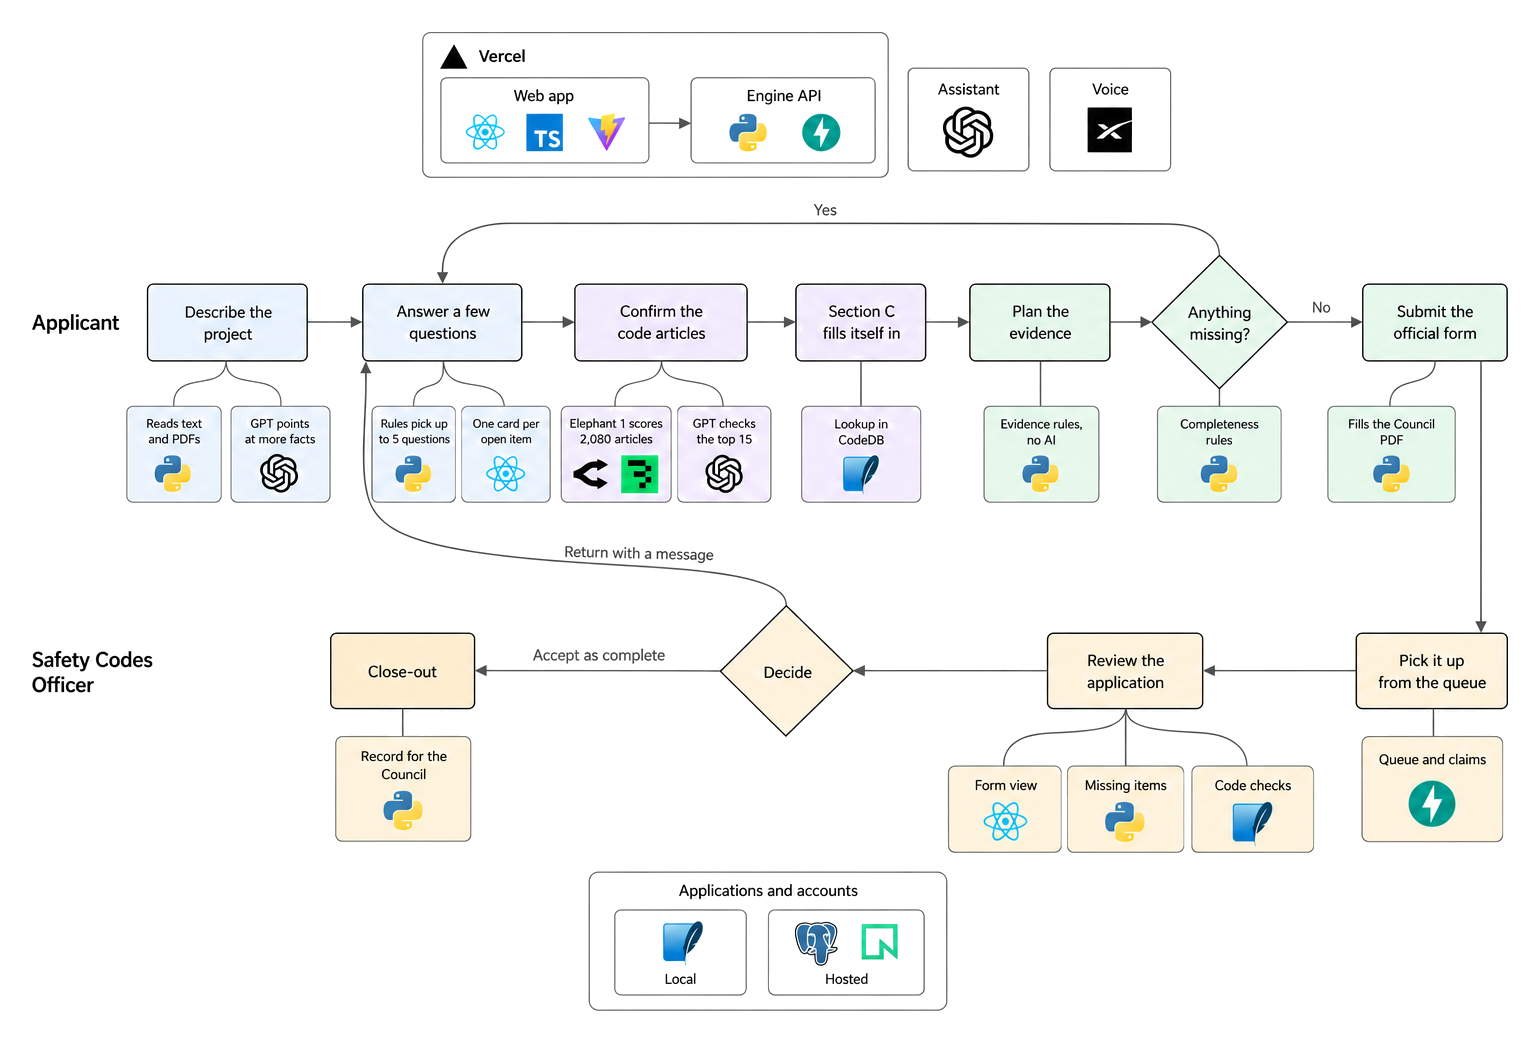
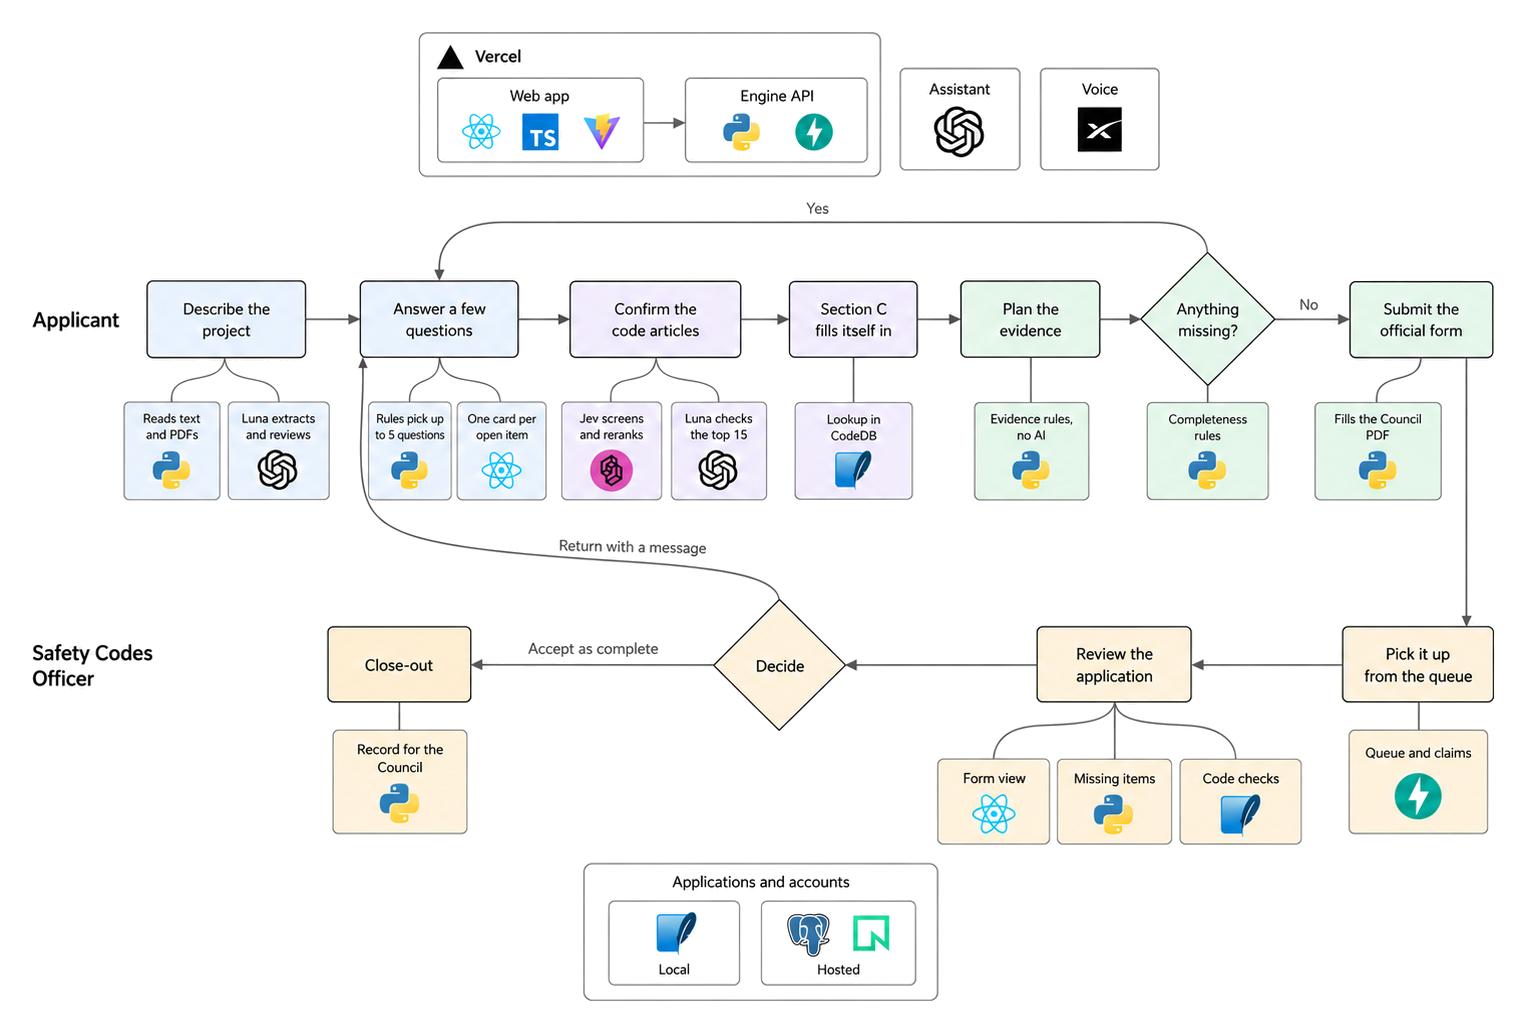
docs: update Luna and Jev workflow README and diagram

diff --git a/README.md b/README.md
@@ -127,7 +127,7 @@ Many published decisions state their outcome, so the cases test reading and pape
 - Add authorities beyond Edmonton and Calgary, then other provinces.
 - Draft the officer's Part 2 decision page from the review findings.
 - Search the CCMC product evaluation registry from inside the app.
-- Measure the code check on applications that experts have reviewed, and calibrate its relevance scores.
+- Measure how accurate the whole workflow is on applications that experts have reviewed, and calibrate its relevance scores.
 - Test the full workflow with real applicants and officers.
 
 ---
@@ -140,9 +140,9 @@ This diagram has the same steps as the one in [Our solution](#our-solution), wit
 
 For applicants:
 
-1. **Describe the project.** Rules read facts, such as the owner and the address, from the description and from the text and fields of any PDFs. If AI is on, GPT points at more facts, and each one must quote the applicant's own words.
+1. **Describe the project.** Rules read facts, such as the owner and the address, from the description and from the text and fields of any PDFs. If AI is on, GPT-6 Luna, an OpenAI model, points at more facts, and each one must quote the text it came from. When you attach files, Luna also reviews them page by page.
 2. **Answer a few questions.** A rule-based planner picks up to five questions. It starts with conflicts in what you wrote, then facts that narrow down the code articles. The website then shows one card for each item that is still open. No AI writes the questions.
-3. **Confirm the code articles.** Elephant 1 scores all 2,080 articles in Division B of the code and reranks the top 60. Elephant 1 is a model hosted on Baseten, and Batatis reaches it through OpenRouter. GPT then reads the top 15 in full and quotes the sentences that apply. You confirm each article. With AI off, a keyword search over CodeDB suggests articles instead.
+3. **Confirm the code articles.** Jev 1.13.0, a TypeSafe model that answers with a probability, scores all 2,080 articles in Division B of the code and reranks the top 60. Luna then reads the top 15 in full and quotes the sentences that apply. Batatis shows up to 10 articles, and you confirm each one. With AI off, or if scoring fails, a keyword search over CodeDB suggests articles instead.
 4. **Section C fills itself in.** The objectives, functions, and intent of each confirmed article come from the code's own tables in CodeDB. No AI is involved.
 5. **Plan the evidence.** Rules match each article to the kinds of evidence it needs, and flag when an engineer or another professional is required. No AI is involved.
 6. **Anything missing?** Completeness rules check every required part of Sections A to D. Anything missing sends you back to the questions.
@@ -155,9 +155,35 @@ For Safety Codes Officers:
 10. **Decide.** Returning the application sends the applicant a message, and they fix it and resubmit. Accepting it marks it as administratively complete.
 11. **Close-out.** The engine builds the decision's record package for the Council.
 
-CodeDB is a SQLite database of the building code. You build it on your computer from the official PDFs of the National Building Code, 2023 Alberta Edition, second printing. Applications and accounts live in SQLite on your computer, or in PostgreSQL on Neon when the app is hosted. The assistant answers with GPT. Voice uses Grok from xAI.
+Batatis checks what Luna writes before it keeps anything. The document review proposes facts, conflicts, the code provisions the files cite, what is still missing, and questions to ask next. Batatis drops a fact, conflict, or provision unless its excerpt appears in the request or the file it names. When a restated fact adds a number that its excerpt lacks, Batatis shows the excerpt instead. A wording filter removes Batatis's own sentences that say a design complies, is safe, or is approved, or that cite an article number CodeDB doesn't have.
+
+The filter catches common phrasings, not every one. The engine saves the document review with the application, but the screens don't show it yet, and step 3 doesn't use it to find articles yet.
+
+CodeDB is a SQLite database of the building code. You build it on your computer from the official PDFs of the National Building Code, 2023 Alberta Edition, second printing. Applications and accounts live in SQLite on your computer, or in PostgreSQL on Neon when the app is hosted. The assistant answers with GPT-4.1 mini by default, or with Claude Sonnet 5.5 when `ANTHROPIC_API_KEY` is set. Voice uses Grok from xAI.
 
 Before any text goes to an AI service, Batatis removes the names, contact details, and addresses that it recognizes. A daily spend cap, US$5 by default, stops AI calls when it is reached.
+
+<details>
+<summary>Why Batatis uses Luna and Jev, and what isn't measured yet</summary>
+
+The team chose this workflow on October 25, 2026, and stopped benchmarking. The [decision record](docs/evaluations/workflow-decision-20261025.md) explains the choice and its limits. The [evidence snapshot](docs/evaluations/workflow-accuracy-evidence-20261025.json) holds the saved results behind it.
+
+- Luna reviews documents with its original prompt. In the saved results, this source-checked review came with the largest improvement. A matched test of another review model, and a test of a revised prompt, showed no clear gain.
+- The team asked for Jev to score the articles. Its saved runs did not finish, so they record the setup, not a score.
+- [`engine/identify/pipeline.json`](engine/identify/pipeline.json) holds the settings for step 3. They resolve to configuration `5f1c92331550984a`. Jev reads each article as its heading and the first 700 characters of its text. [`engine/tests/test_workflow_profile.py`](engine/tests/test_workflow_profile.py) fails if a selected model, effort, or limit changes.
+
+No complete, reliable test has measured the accuracy of this combined workflow, and no result shows that it is more than 97% accurate. The record also keeps older scores from earlier code, other judges, and other workloads. None of them is the accuracy of this workflow.
+
+When testing resumes, these are the next tests, in order. None is scheduled.
+
+1. Review the source checks and the wording filter independently, and test a filter that reads meaning instead of wording.
+2. Run the whole journey in the app, from upload to export.
+3. Measure this exact workflow on the [development cases](evals_dev/data_prompts/README.md#split), then on the held-out cases without tuning on them.
+4. Have experts check the reference answers and the judge.
+5. Test smaller source chunks, and passing reviewed facts to step 3, as separate changes.
+6. Tune cost and speed only after accuracy.
+
+</details>
 
 <details>
 <summary>Measured accuracy of the engineer-needed flag</summary>
@@ -176,7 +202,12 @@ The frontend, meaning the files that build the screens and their look:
 
 ![The frontend files: the web app's entry, the screens in web/src/calm, and the design rules and tokens in docs](docs/readme/folder-structure-frontend.png)
 
-Both pictures show the main folders and files, not every one.
+Both pictures show the main folders and files, not every one. The pictures leave out these files, which hold the AI workflow:
+
+- [`engine/intake/review.py`](engine/intake/review.py) runs the document review and checks what it returns.
+- [`engine/identify/pipeline.json`](engine/identify/pipeline.json) holds the settings for finding code articles.
+- [`evals_dev/data_prompts/`](evals_dev/data_prompts/) runs the practice cases through the engine and scores the results.
+- [`docs/evaluations/workflow-decision-20261025.md`](docs/evaluations/workflow-decision-20261025.md) explains why Batatis uses this workflow, and its limits.
 
 ## Get started
 
@@ -363,22 +394,46 @@ BATATIS_LIVE_ELEPHANT=0
 BATATIS_DAILY_SPEND_CAP_USD=5
 ```
 
+The AI steps in [How Batatis works](#how-batatis-works) need your OpenAI key and a TypeSafe key. The example file has no line for the TypeSafe key, so add one. Paste each key after its `=`, and set `BATATIS_LIVE=1`:
+
+```dotenv
+OPENAI_API_KEY=
+TYPESAFE_API_KEY=
+BATATIS_LIVE=1
+```
+
+The OpenRouter key and `BATATIS_LIVE_ELEPHANT` are only for an optional alternative scorer, explained below.
+
 #### `OPENAI_API_KEY`
 
-The OpenAI API runs GPT models. Batatis uses GPT to read more facts from descriptions and PDFs, and to check and quote the top code articles. The assistant also answers with GPT. Set `BATATIS_LIVE=1` to turn it on.
+The OpenAI API runs GPT models. Batatis uses GPT-6 Luna, at medium reasoning effort, to read more facts from descriptions and PDFs, to review attached files, and to read the top 15 code articles in full. The assistant uses GPT-4.1 mini by default. If you set `ANTHROPIC_API_KEY`, which is not in the example file, the assistant uses Claude Sonnet 5.5 instead. Set `BATATIS_LIVE=1` to turn it on.
 
 Files that use it:
 
 - [`engine/llm_gate.py`](engine/llm_gate.py)
 - [`engine/intake/model.py`](engine/intake/model.py)
+- [`engine/intake/review.py`](engine/intake/review.py)
 - [`engine/identify/providers.py`](engine/identify/providers.py)
 - [`engine/routes_assist.py`](engine/routes_assist.py)
 
 Get a key at [platform.openai.com/api-keys](https://platform.openai.com/api-keys).
 
+#### `TYPESAFE_API_KEY`
+
+TypeSafe runs Jev, a model that answers questions with a probability instead of writing text. Batatis uses Jev 1.13.0 to score all 2,080 articles in Division B and to rerank the top 60. Set `BATATIS_LIVE=1` to turn it on. Batatis also accepts the same key as `JEV_API_KEY`. If neither is set, it looks in the macOS Keychain or the Linux secret store, then in `~/.config/jev/credentials`.
+
+Files that use it:
+
+- [`engine/identify/jevkit/keystore.py`](engine/identify/jevkit/keystore.py)
+- [`engine/identify/jevkit/client.py`](engine/identify/jevkit/client.py)
+- [`engine/identify/jev_runtime.py`](engine/identify/jev_runtime.py)
+- [`engine/llm_gate.py`](engine/llm_gate.py)
+
+Get a key at [console.typesafe.ai/keys](https://console.typesafe.ai/keys).
+
 #### `OPENROUTER_API_KEY`
 
-OpenRouter is one API that reaches many AI models. Batatis uses it to call Elephant 1, a model hosted on Baseten that scores how relevant each code article is to the project. Set `BATATIS_LIVE_ELEPHANT=1` to turn on only this model.
+This key is optional. OpenRouter is one API that reaches many AI models. Batatis can use it to call Elephant 1, a free model hosted on Baseten, to score the articles in place of Jev. To choose Elephant, set both `BATATIS_IDENTIFY_SCREEN=elephant` and `BATATIS_IDENTIFY_RERANK=elephant`. Then set `BATATIS_LIVE_ELEPHANT=1`, because the example file's `0` keeps Elephant off even when `BATATIS_LIVE` is `1`. The switch alone doesn't choose Elephant.
 
 The route that Batatis uses is free, but OpenRouter limits free requests per day, and one full scoring run takes about 135 requests. See the [Elephant guide](docs/elephant-provider.md).
 
@@ -387,7 +442,6 @@ Files that use it:
 - [`engine/llm_gate.py`](engine/llm_gate.py)
 - [`engine/identify/elephant_runtime.py`](engine/identify/elephant_runtime.py)
 - [`engine/identify/providers.py`](engine/identify/providers.py)
-- [`engine/identify/jevkit/keystore.py`](engine/identify/jevkit/keystore.py)
 
 Get a key at [openrouter.ai/settings/keys](https://openrouter.ai/settings/keys).
 
@@ -397,8 +451,8 @@ Get a key at [openrouter.ai/settings/keys](https://openrouter.ai/settings/keys).
 
 | Switch | What it does |
 | --- | --- |
-| `BATATIS_LIVE` | `1` turns on every AI step that has a key. `0` keeps the app offline. |
-| `BATATIS_LIVE_ELEPHANT` | `1` turns on only Elephant 1. `0` turns it off, even when `BATATIS_LIVE` is `1`. |
+| `BATATIS_LIVE` | `1` turns on every AI step that has its key, and `0` turns them off. For Elephant 1, a `BATATIS_LIVE_ELEPHANT` value of `0` or `1` wins over this switch. |
+| `BATATIS_LIVE_ELEPHANT` | `1` turns on Elephant 1, even when `BATATIS_LIVE` is `0`, but Elephant runs only when you choose it as above. `0` turns it off, even when `BATATIS_LIVE` is `1`. Left empty, it follows `BATATIS_LIVE`. |
 | `BATATIS_DAILY_SPEND_CAP_USD` | Stops AI calls for the day after this many US dollars. |
 
 Voice needs an xAI key, `XAI_API_KEY`, which is not in the example file. See the [voice notes](docs/api/voice.md).
@@ -525,6 +579,7 @@ Read [`AGENTS.md`](AGENTS.md) and the skills it names before you write any code.
 | --- | --- |
 | Start any task | [`AGENTS.md`](AGENTS.md) and [`batatis-hackathon`](.cursor/skills/batatis-hackathon/SKILL.md) |
 | Change the application flow or the engine | [`batatis-variance-workflow`](.cursor/skills/batatis-variance-workflow/SKILL.md) |
+| Change an AI model or how articles are found | The [workflow decision record](docs/evaluations/workflow-decision-20261025.md) and [`engine/tests/test_workflow_profile.py`](engine/tests/test_workflow_profile.py) |
 | Change anything on screen | [`batatis-ui-linear`](.cursor/skills/batatis-ui-linear/SKILL.md), [`batatis-ui-opus`](.cursor/skills/batatis-ui-opus/SKILL.md), [`batatis-ui-minimalist`](.cursor/skills/batatis-ui-minimalist/SKILL.md), and [`docs/design-system-calm.md`](docs/design-system-calm.md) |
 | Change a skill or a rule | [`evals/fixtures/understanding-checklist.md`](evals/fixtures/understanding-checklist.md) |
 | Plan, build, debug, or review code | The engineering skills in [`.agents/skills/`](.agents/skills/) and [pstack](docs/pstack.md) |

diff --git a/docs/elephant-provider.md b/docs/elephant-provider.md
@@ -1,16 +1,23 @@
 # Elephant article scoring
 
-Screening and the top-60 rerank default to `elephant`. The existing full-text
+The checked-in [pipeline profile](../engine/identify/pipeline.json) selects Jev for
+screening and the top-60 rerank, as the
+[workflow decision record](evaluations/workflow-decision-20261025.md) explains. This
+guide covers Elephant as an optional scorer that runs only when you configure it
+explicitly. The existing full-text
 verifier, assistant and voice configurations keep their own settings and gates.
 Scoring runs only for the existing explicit identify/relevance actions; constructing
 the app, saving a description and reading stored results do not score anything.
 
 ## Server configuration
 
-Set `OPENROUTER_API_KEY` privately in the server environment. To enable only this
-scorer while keeping unrelated providers disabled, use:
+Set `OPENROUTER_API_KEY` privately in the server environment. To choose Elephant for
+both scoring stages and enable only this scorer while keeping unrelated providers
+disabled, use:
 
 ```dotenv
+BATATIS_IDENTIFY_SCREEN=elephant
+BATATIS_IDENTIFY_RERANK=elephant
 BATATIS_LIVE=0
 BATATIS_LIVE_ELEPHANT=1
 ```
@@ -28,10 +35,13 @@ its values to the web process. An isolated worktree does not borrow another
 checkout's private `.env`. The parent owns private configuration and server restart.
 
 Existing config-file and `BATATIS_IDENTIFY_*` overrides still take precedence.
-Remove obsolete overrides or explicitly set both `BATATIS_IDENTIFY_SCREEN` and
-`BATATIS_IDENTIFY_RERANK` to `elephant`. Their model pins must both be
-`baseten/elephant-1:free`. Jev and legacy Luna Decisions remain explicit opt-ins;
-missing credentials or scoring failures never select them automatically.
+Set both `BATATIS_IDENTIFY_SCREEN` and `BATATIS_IDENTIFY_RERANK` to `elephant`, as
+above, or use a config file that selects it for both stages. Any stage you do not
+override keeps the checked-in Jev setting. Their model pins must both be
+`baseten/elephant-1:free`, and `load_config` infers them when they are omitted. Jev
+is the selected scorer in the checked-in profile, and legacy Luna Decisions remains
+an explicit opt-in. A missing credential or a scoring failure never switches to
+another scoring provider. Identify takes its labelled keyword fallback instead.
 
 ## Wire and failure policy
 
